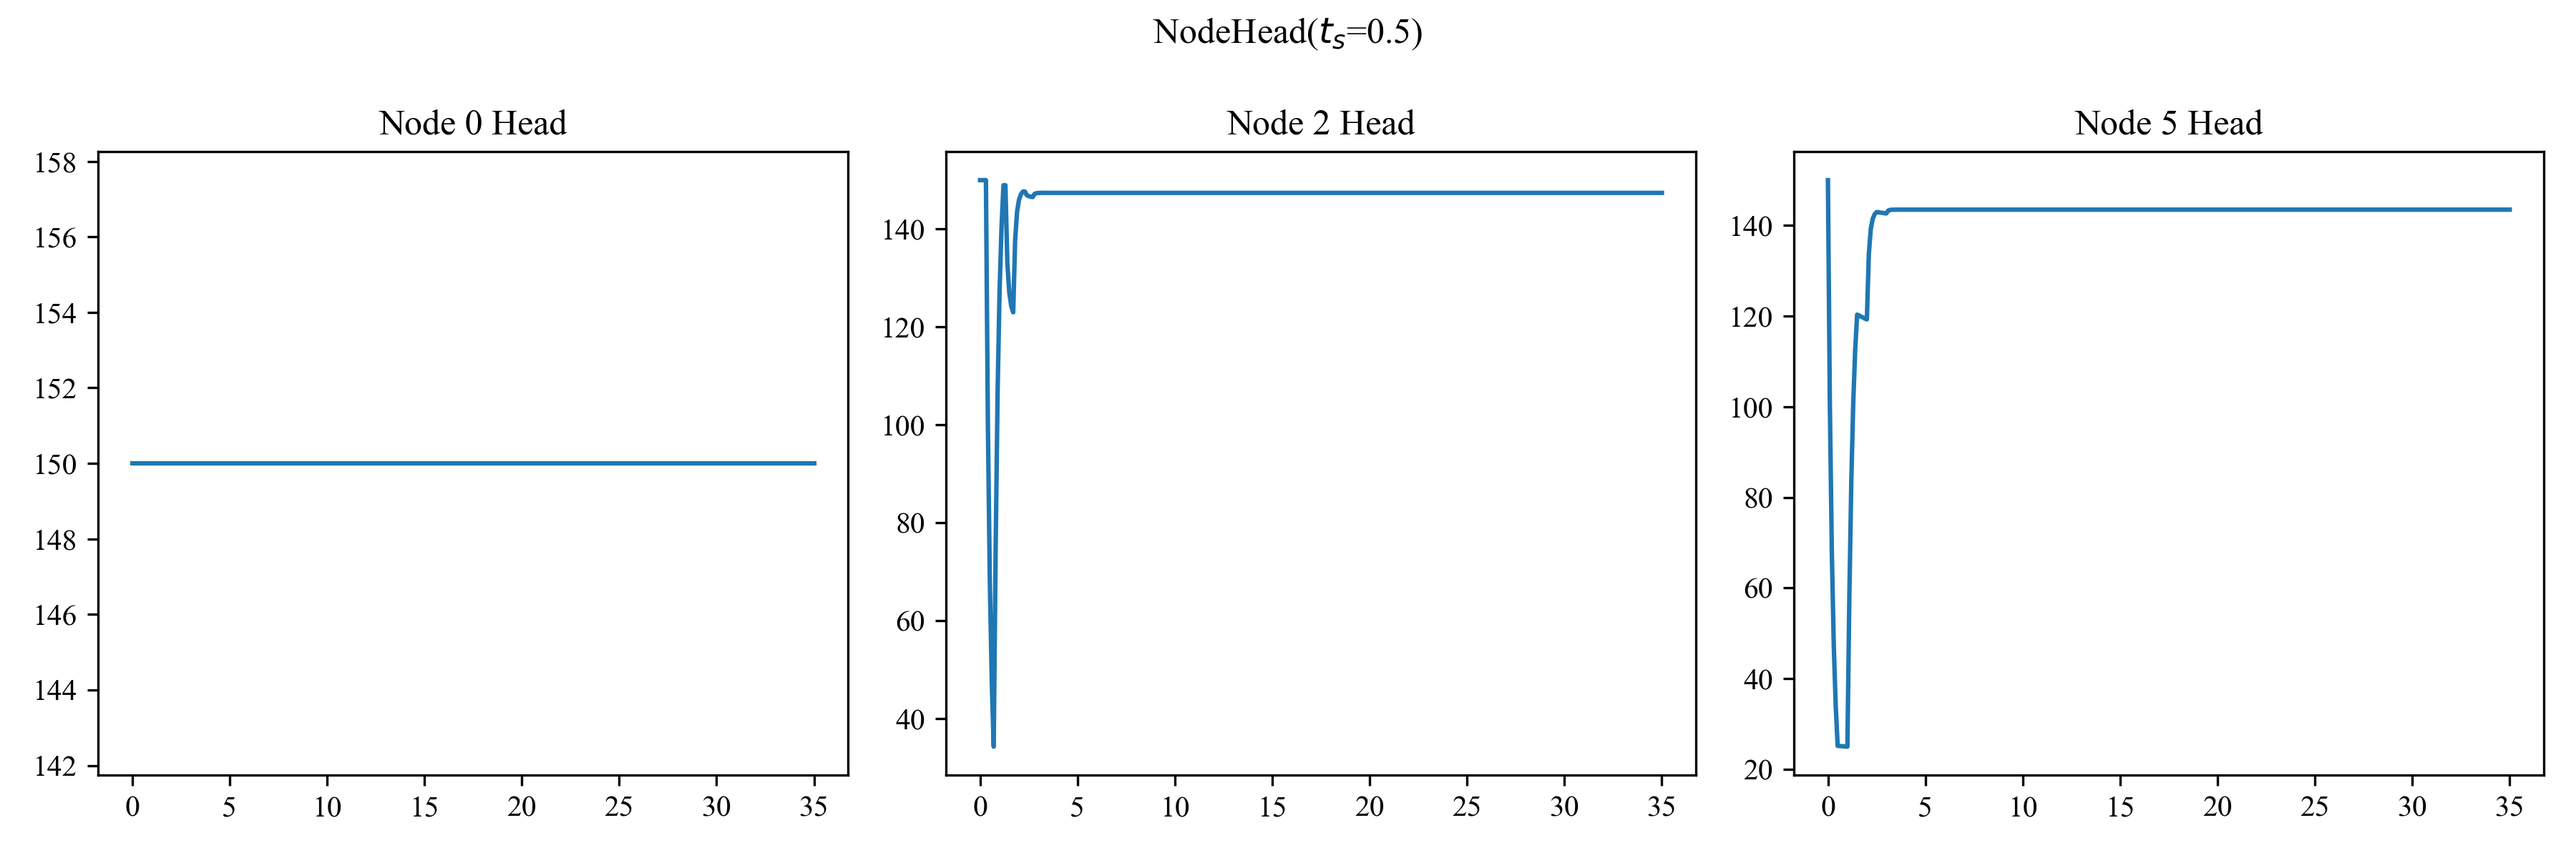
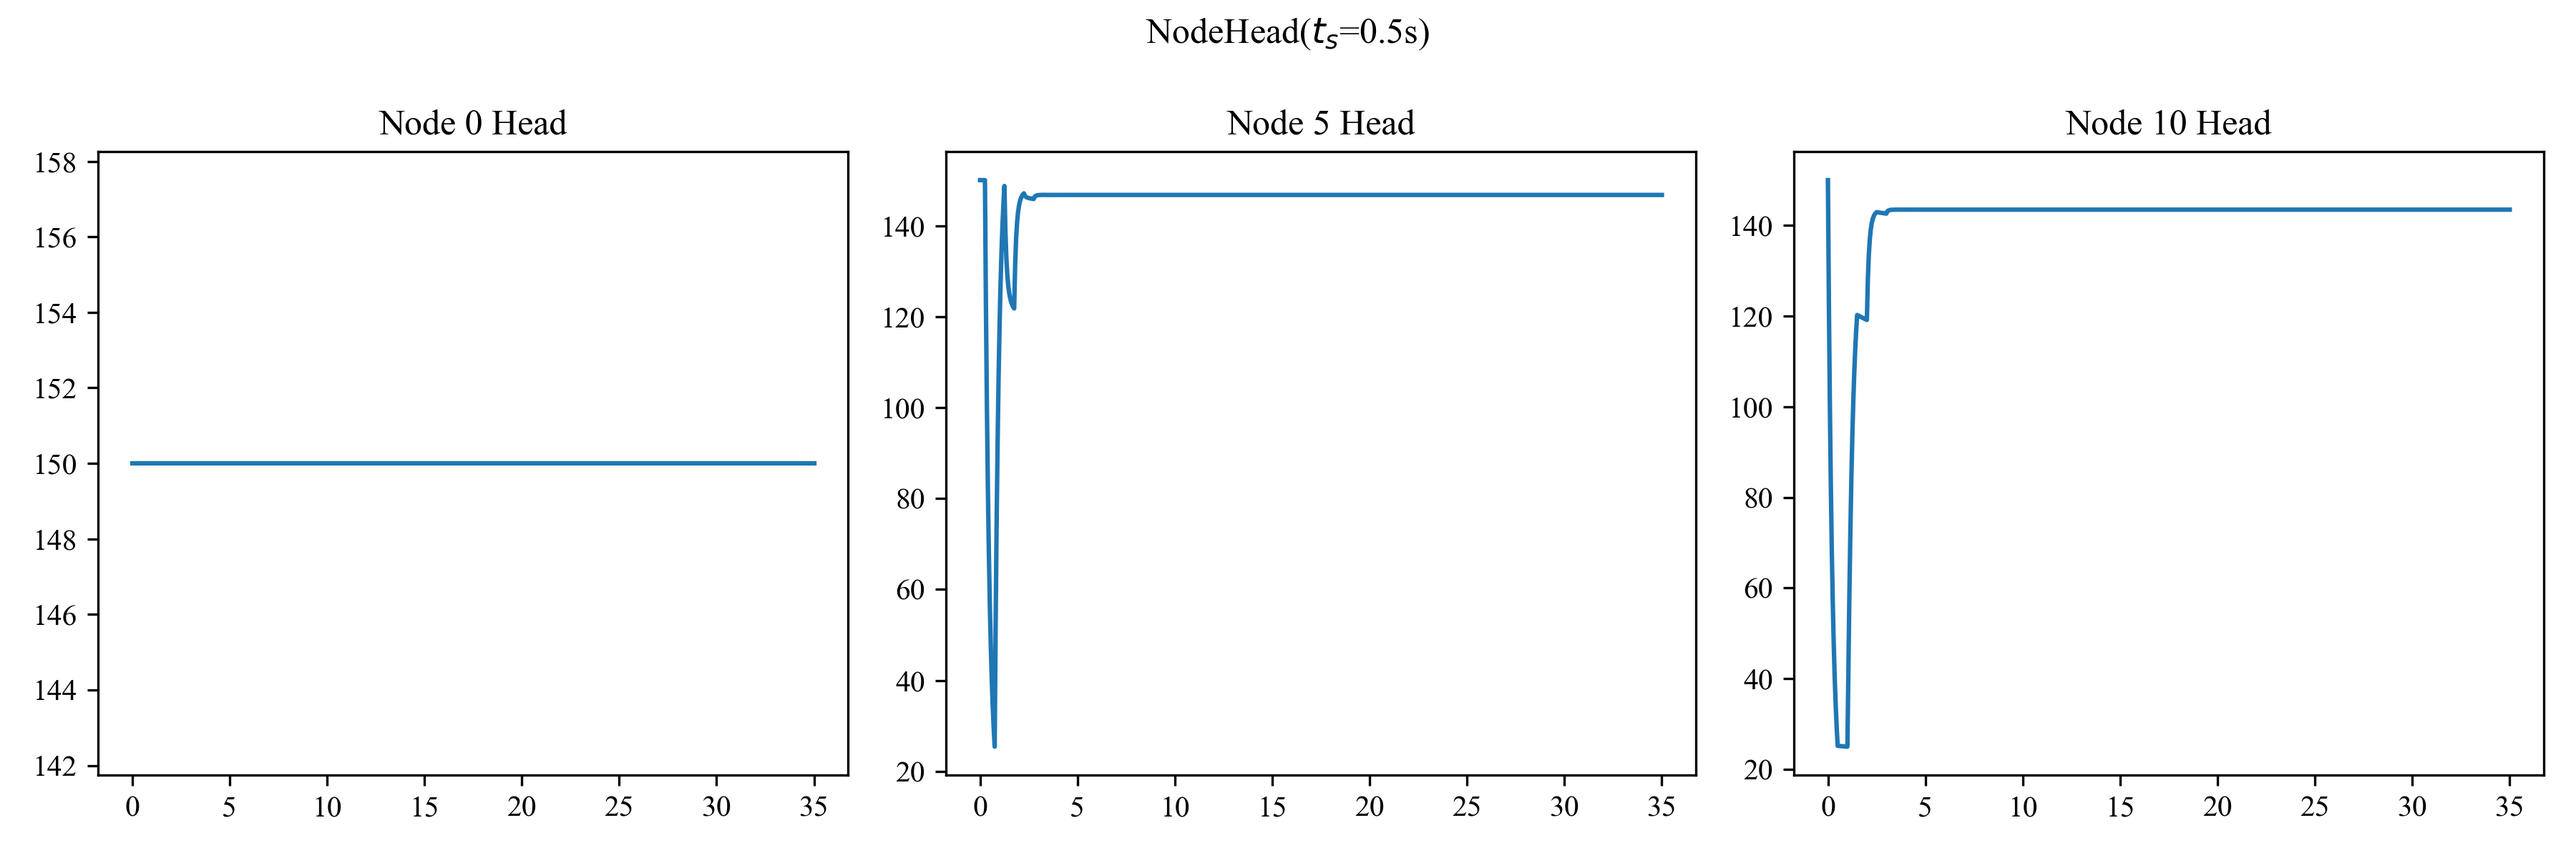
renew

diff --git a/自主研究探索课程（1）/作业/Question2/test.py b/自主研究探索课程（1）/作业/Question2/test.py
@@ -9,10 +9,9 @@ f = 0.018
 k = 0.009
 # 即C_dA_g
 g = 9.806
-t_c = 16.0
-#修改t_c即可得到不同t_c下的结果
-E_m = 1
-Q_0 = k*np.sqrt(2*g*H_R)
+t_c = 2.1
+E_m = 1.5
+Q_0 =0.4774321
 # 阀门全开时的流量
 
 N = 10
@@ -20,7 +19,7 @@ N = 10
 
 # 初始化Q和H
 init = np.zeros(N+1)
-Q = np.array([init])
+Q = np.array([init])+Q_0
 H = np.array([init])+H_R
 # H[0,N] = 0
 
@@ -28,7 +27,7 @@ H = np.array([init])+H_R
 dx = L/N
 dt = dx/a
 
-N_t = int(35/dt)#这里为仿真时间
+N_t = int(25/dt)
 A = np.pi*D**2/4
 B = a/(g*A)
 S = 0
@@ -36,11 +35,11 @@ R = f*dx/(2*g*D*A**2)
 for i in range(1,N_t+1):
     t =  i*dt
     if t<t_c:
-        # tau = np.power(1-t/t_c,E_m)
-        tau = 1
+        tau = np.power(1-t/t_c,E_m)
+        # tau = 1
     else:
-        # tau = 0
-        tau = 1
+        tau = 0
+        # tau = 1
     Q = np.append(Q,[init],axis=0)
     H = np.append(H,[init],axis=0)
     for j in range(N+1):
@@ -61,11 +60,11 @@ for i in range(1,N_t+1):
 
 # 画出流量Q随时间变化
 fig, ax = plt.subplots(1,3)
-fig.set_size_inches(12,4)
 plt.rcParams['font.family'] = 'Times New Roman'
 
-
-fig.suptitle('NodeTraffic($t_c$='+str(t_c)[0:4]+')')
+# 将图窗设置为3英寸*3英寸
+fig.set_size_inches(12,4)
+fig.suptitle('NodeTraffic(N='+str(N)+')')
 ax[0].plot([i*dt for i in range (N_t+1)],Q[:,0])
 ax[0].set_title('Node 0 Traffic')
 ax[1].plot([i*dt for i in range (N_t+1)],Q[:,int(N/2)])
@@ -79,7 +78,7 @@ plt.show()
 # 画出水头H随时间变化
 fig, ax = plt.subplots(1,3)
 fig.set_size_inches(12,4)
-fig.suptitle('NodeHead($t_c$='+str(t_c)[0:4]+')')
+fig.suptitle('NodeHead(N='+str(N)+')')
 ax[0].plot([i*dt for i in range (N_t+1)],H[:,0])
 ax[0].set_title('Node 0 Head')
 ax[1].plot([i*dt for i in range (N_t+1)],H[:,int(N/2)])
@@ -88,6 +87,3 @@ ax[2].plot([i*dt for i in range (N_t+1)],H[:,N])
 ax[2].set_title('Node '+str(N)+' Head')
 plt.tight_layout()
 plt.show()
-
-print('流量：',Q[N_t,N],'\n')
-print('水头：',H[N_t,N],'\n')

diff --git a/自主研究探索课程（1）/作业/Question3/Question3.py b/自主研究探索课程（1）/作业/Question3/Question3.py
@@ -3,17 +3,19 @@ import matplotlib.pyplot as plt
 from matplotlib import font_manager
 
 H_R = 150
+H_0 = 143.48828
+Q_0 = 0.4774321
+#Question1计算结果
 L = 600
 a = 1200
 D = 0.5
 f = 0.018
 k = 0.009
-# 即C_dA_g
+# 即C_d*A_g
 g = 9.806
 t_c = 16.0
 #修改t_c即可得到不同t_c下的结果
 E_m = 1
-Q_0 = k*np.sqrt(2*g*H_R)
 # 阀门全开时的流量
 
 N = 10
@@ -21,9 +23,10 @@ N = 10
 
 # 初始化Q和H
 init = np.zeros(N+1)
-Q = np.array([init])
-H = np.array([init])+H_R
-# H[0,N] = 0
+Q = np.array([init])+Q_0
+H = np.array([init])
+for i in range(N+1):
+    H[0,i] = H_R+(H_0-H_R)/(N)*i
 
 # 迭代计算
 dx = L/N
@@ -51,7 +54,7 @@ for i in range(1,N_t+1):
             Q[i,j] = (H[i,j]-C_M)/B
         elif j == N:
             C_P = H[i-1,j-1]+Q[i-1,j-1]*(B+S-R*abs(Q[i-1,j-1]))
-            C_V = (Q_0*tau)**2/(2*H_R)
+            C_V = (Q_0*tau)**2/(2*H_0)
             Q[i,j] = -B*C_V+np.sqrt((B*C_V)**2+2*C_V*C_P)
             H[i,j] = C_P - B*Q[i,j]
         else:
@@ -66,7 +69,7 @@ fig.set_size_inches(12,4)
 plt.rcParams['font.family'] = 'Times New Roman'
 
 
-fig.suptitle('NodeTraffic($t_c$='+str(t_c)[0:4]+')')
+fig.suptitle('NodeTraffic($t_c$='+str(t_c)[0:4]+'s)')
 ax[0].plot([i*dt for i in range (N_t+1)],Q[:,0])
 ax[0].set_title('Node 0 Traffic')
 ax[1].plot([i*dt for i in range (N_t+1)],Q[:,int(N/2)])
@@ -74,13 +77,12 @@ ax[1].set_title('Node '+str(int(N/2))+' Traffic')
 ax[2].plot([i*dt for i in range (N_t+1)],Q[:,N])
 ax[2].set_title('Node '+str(N)+' Traffic')
 plt.tight_layout()
-# 存储图像到Question2文件夹下
 plt.savefig('Question3/NodeTraffic(t_c='+str(t_c)[0:4]+').png',dpi=300)
 
 # 画出水头H随时间变化
 fig, ax = plt.subplots(1,3)
 fig.set_size_inches(12,4)
-fig.suptitle('NodeHead($t_c$='+str(t_c)[0:4]+')')
+fig.suptitle('NodeHead($t_c$='+str(t_c)[0:4]+'s)')
 ax[0].plot([i*dt for i in range (N_t+1)],H[:,0])
 ax[0].set_title('Node 0 Head')
 ax[1].plot([i*dt for i in range (N_t+1)],H[:,int(N/2)])

diff --git a/自主研究探索课程（1）/作业/Question4/Question4.py b/自主研究探索课程（1）/作业/Question4/Question4.py
@@ -2,6 +2,9 @@ import numpy as np
 import matplotlib.pyplot as plt
 
 H_R = 150
+H_0 = 143.48828
+Q_0 = 0.4774321
+#Question1计算结果
 L = 600
 a = 1200
 D = 0.5
@@ -11,20 +14,19 @@ k = 0.009
 g = 9.806
 t_c = 4.0
 #阀门关闭时间
-t_s = 16.0
+t_s = 0.5
 #阀门开启时间
 E_m = 1
 Q_0 = k*np.sqrt(2*g*H_R)
 # 阀门全开时的流量
 
-N = 5
+N = 10
 # 管道分段
 
-# 初始化Q和H
+# 初始化Q和H 设置边界条件
 init = np.zeros(N+1)
 Q = np.array([init])
 H = np.array([init])+H_R
-# H[0,N] = 0
 
 # 迭代计算
 dx = L/N
@@ -68,7 +70,7 @@ fig.set_size_inches(12,4)
 plt.rcParams['font.family'] = 'Times New Roman'
 
 
-fig.suptitle('NodeTraffic($t_s$='+str(t_s)[0:4]+')')
+fig.suptitle('NodeTraffic($t_s$='+str(t_s)[0:4]+'s)')
 ax[0].plot([i*dt for i in range (N_t+1)],Q[:,0])
 ax[0].set_title('Node 0 Traffic')
 ax[1].plot([i*dt for i in range (N_t+1)],Q[:,int(N/2)])
@@ -76,13 +78,12 @@ ax[1].set_title('Node '+str(int(N/2))+' Traffic')
 ax[2].plot([i*dt for i in range (N_t+1)],Q[:,N])
 ax[2].set_title('Node '+str(N)+' Traffic')
 plt.tight_layout()
-# 存储图像到Question4文件夹下
 plt.savefig('Question4/NodeTraffic(t_s='+str(t_s)[0:4]+').png',dpi=300)
 
 # 画出水头H随时间变化
 fig, ax = plt.subplots(1,3)
 fig.set_size_inches(12,4)
-fig.suptitle('NodeHead($t_s$='+str(t_s)[0:4]+')')
+fig.suptitle('NodeHead($t_s$='+str(t_s)[0:4]+'s)')
 ax[0].plot([i*dt for i in range (N_t+1)],H[:,0])
 ax[0].set_title('Node 0 Head')
 ax[1].plot([i*dt for i in range (N_t+1)],H[:,int(N/2)])

diff --git a/自主研究探索课程（1）/作业/Question2/Question2.py b/自主研究探索课程（1）/作业/Question2/Question2.py
@@ -2,27 +2,30 @@ import numpy as np
 import matplotlib.pyplot as plt
 
 H_R = 150
+Q_0 =0.4774321
+H_0 = 143.48828
+#Question1计算结果
 L = 600
 a = 1200
 D = 0.5
 f = 0.018
 k = 0.009
-# 即C_dA_g
+# 即C_d*A_g
 g = 9.806
 t_c = 2.1
 E_m = 1.5
-Q_0 = k*np.sqrt(2*g*H_R)
-# 阀门全开时的流量
 
 N = 20
 # 管道分段
 
 # 初始化Q和H
 init = np.zeros(N+1)
-Q = np.array([init])
-H = np.array([init])+H_R
-# H[0,N] = 0
-
+Q = np.array([init])+Q_0
+H = np.array([init])
+for i in range(N+1):
+    H[0,i] = H_R+(H_0-H_R)/(N)*i
+# 用线性近似初始化H
+    
 # 迭代计算
 dx = L/N
 dt = dx/a
@@ -49,7 +52,7 @@ for i in range(1,N_t+1):
             Q[i,j] = (H[i,j]-C_M)/B
         elif j == N:
             C_P = H[i-1,j-1]+Q[i-1,j-1]*(B+S-R*abs(Q[i-1,j-1]))
-            C_V = (Q_0*tau)**2/(2*H_R)
+            C_V = (Q_0*tau)**2/(2*H_0)
             Q[i,j] = -B*C_V+np.sqrt((B*C_V)**2+2*C_V*C_P)
             H[i,j] = C_P - B*Q[i,j]
         else:
@@ -62,7 +65,7 @@ for i in range(1,N_t+1):
 fig, ax = plt.subplots(1,3)
 plt.rcParams['font.family'] = 'Times New Roman'
 
-# 将图窗设置为3英寸*3英寸
+# 将图窗设置为12英寸*4英寸
 fig.set_size_inches(12,4)
 fig.suptitle('NodeTraffic(N='+str(N)+')')
 ax[0].plot([i*dt for i in range (N_t+1)],Q[:,0])
